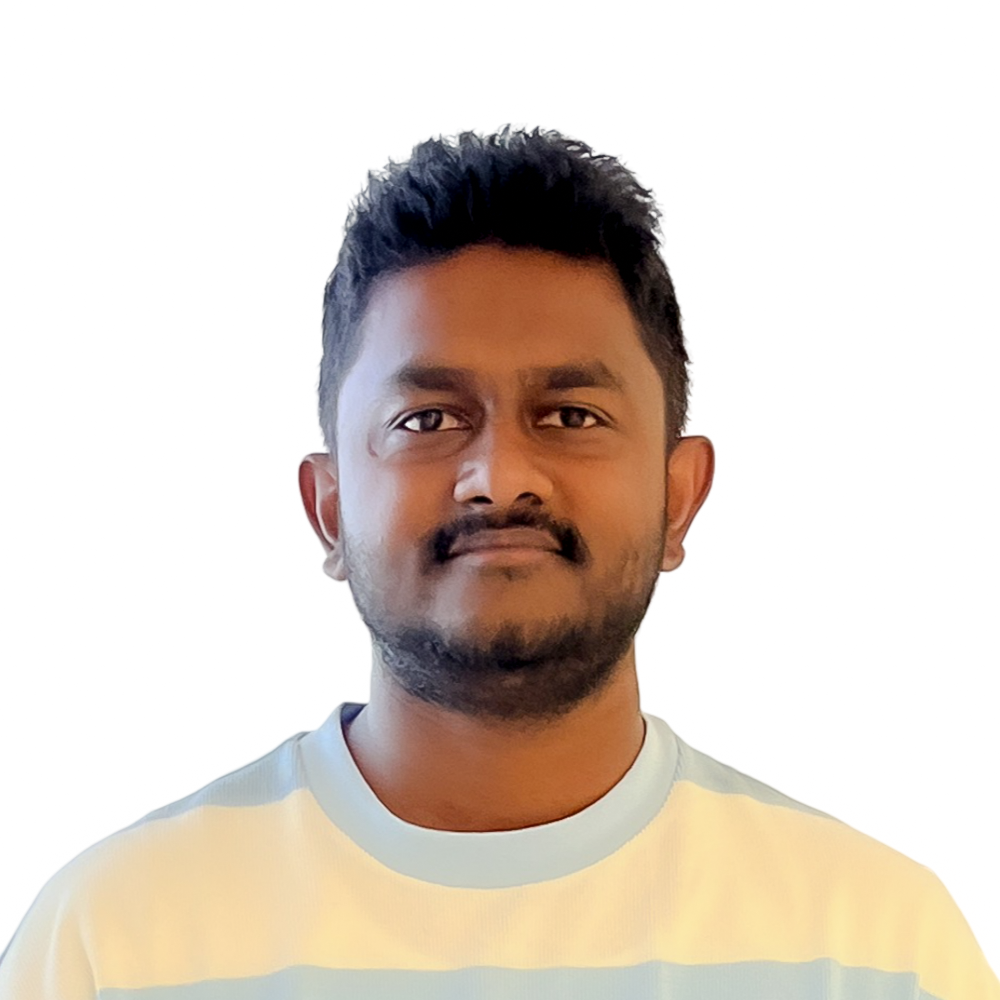
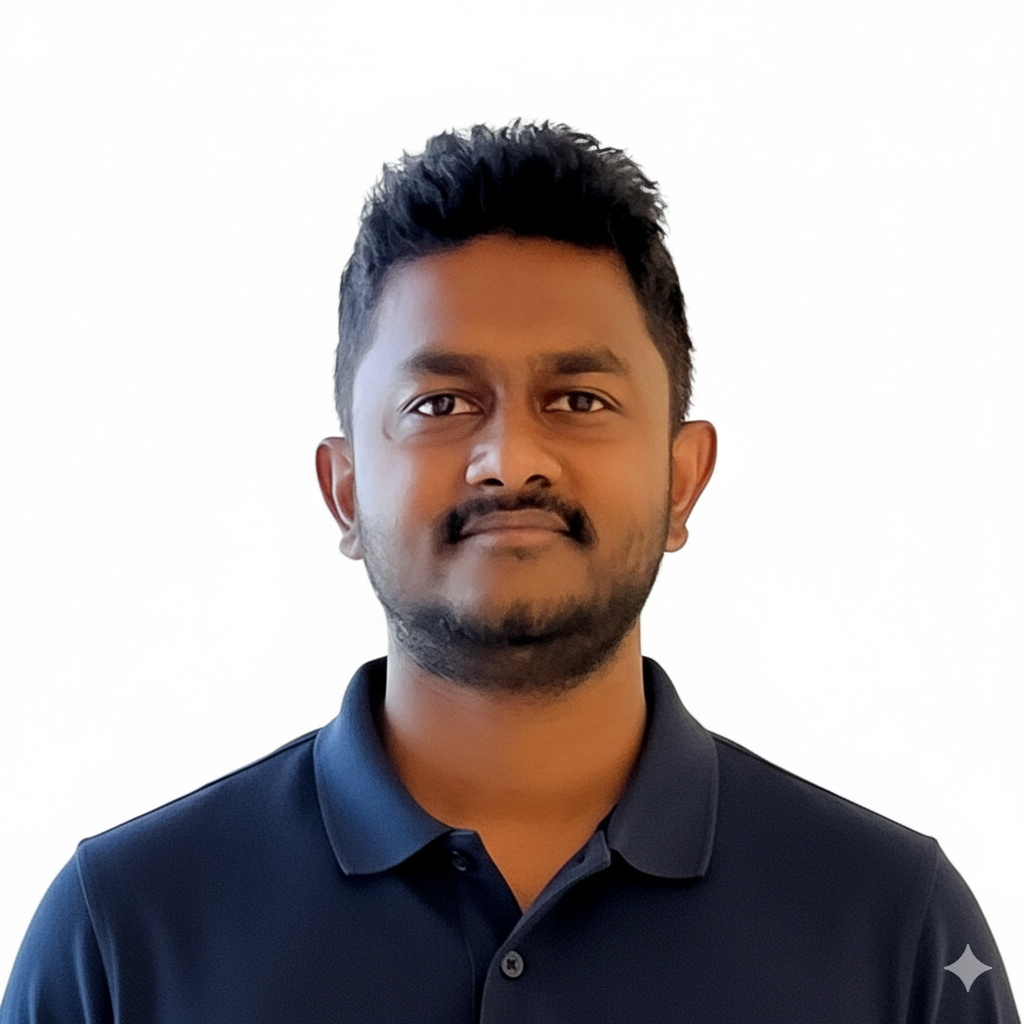
Change profile pic

diff --git a/index.html b/index.html
@@ -78,7 +78,7 @@
         <section id="about" class="text-center mb-12">
             <div class="inline-flex flex-col items-center gap-4">
                 <div class="avatar rounded-full overflow-hidden w-50 h-50">
-                    <img src="assests/profile_pic.png" alt="My Photo" class="w-full h-full object-cover" />
+                    <img src="assests/profile_pic_2.png" alt="My Photo" class="w-full h-full object-cover" />
                 </div>
                 <h1 class="text-3xl sm:text-4xl font-semibold">Risith Perera</h1>
                 <p class="text-gray-600">Software Engineer — Data Engineering · Backend · IT Security</p>
